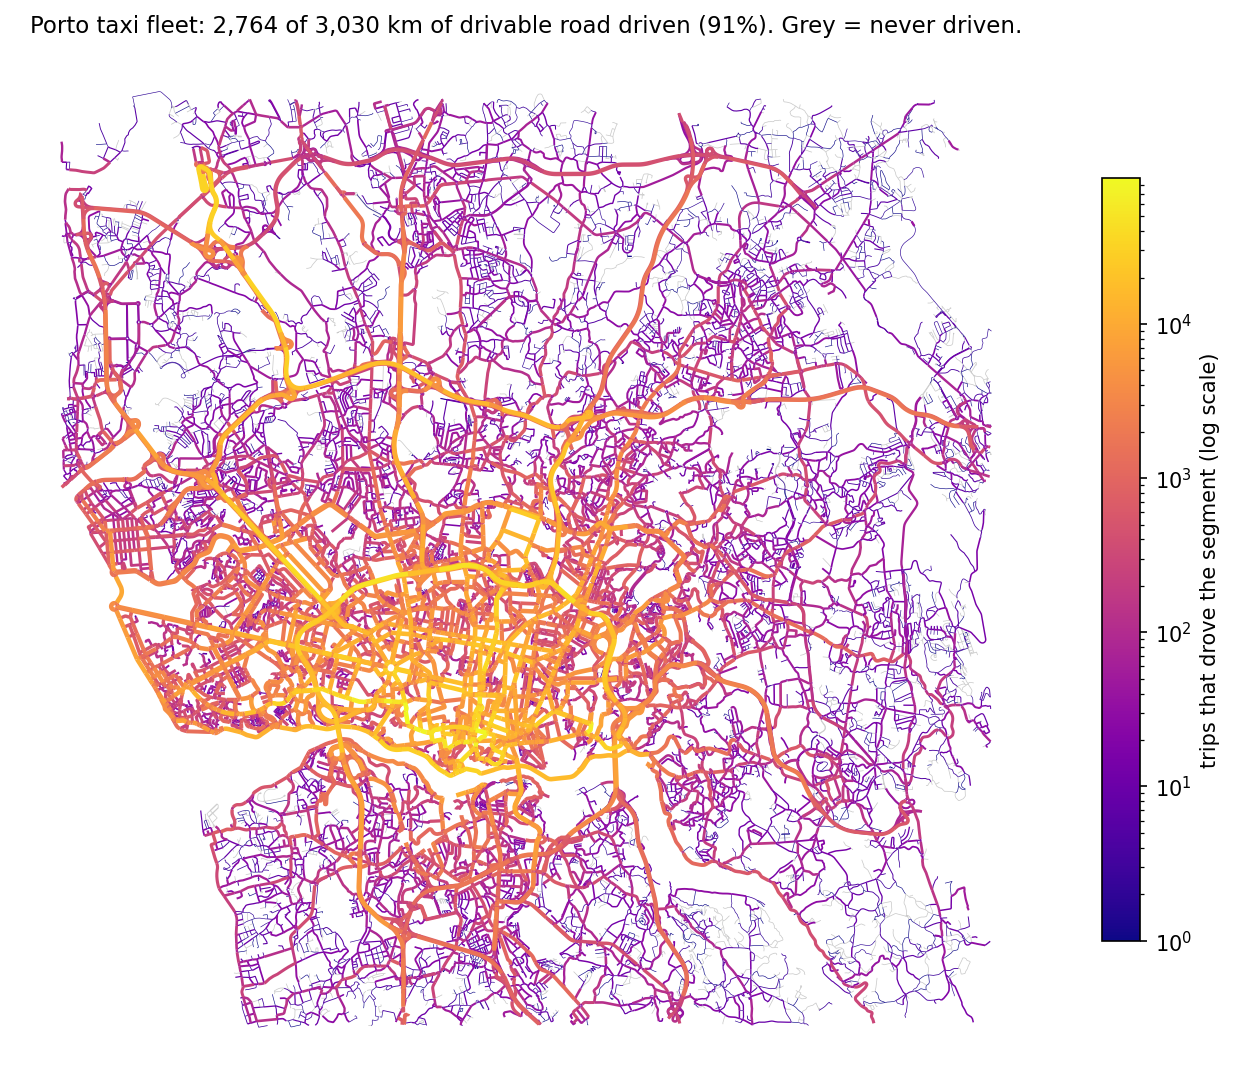
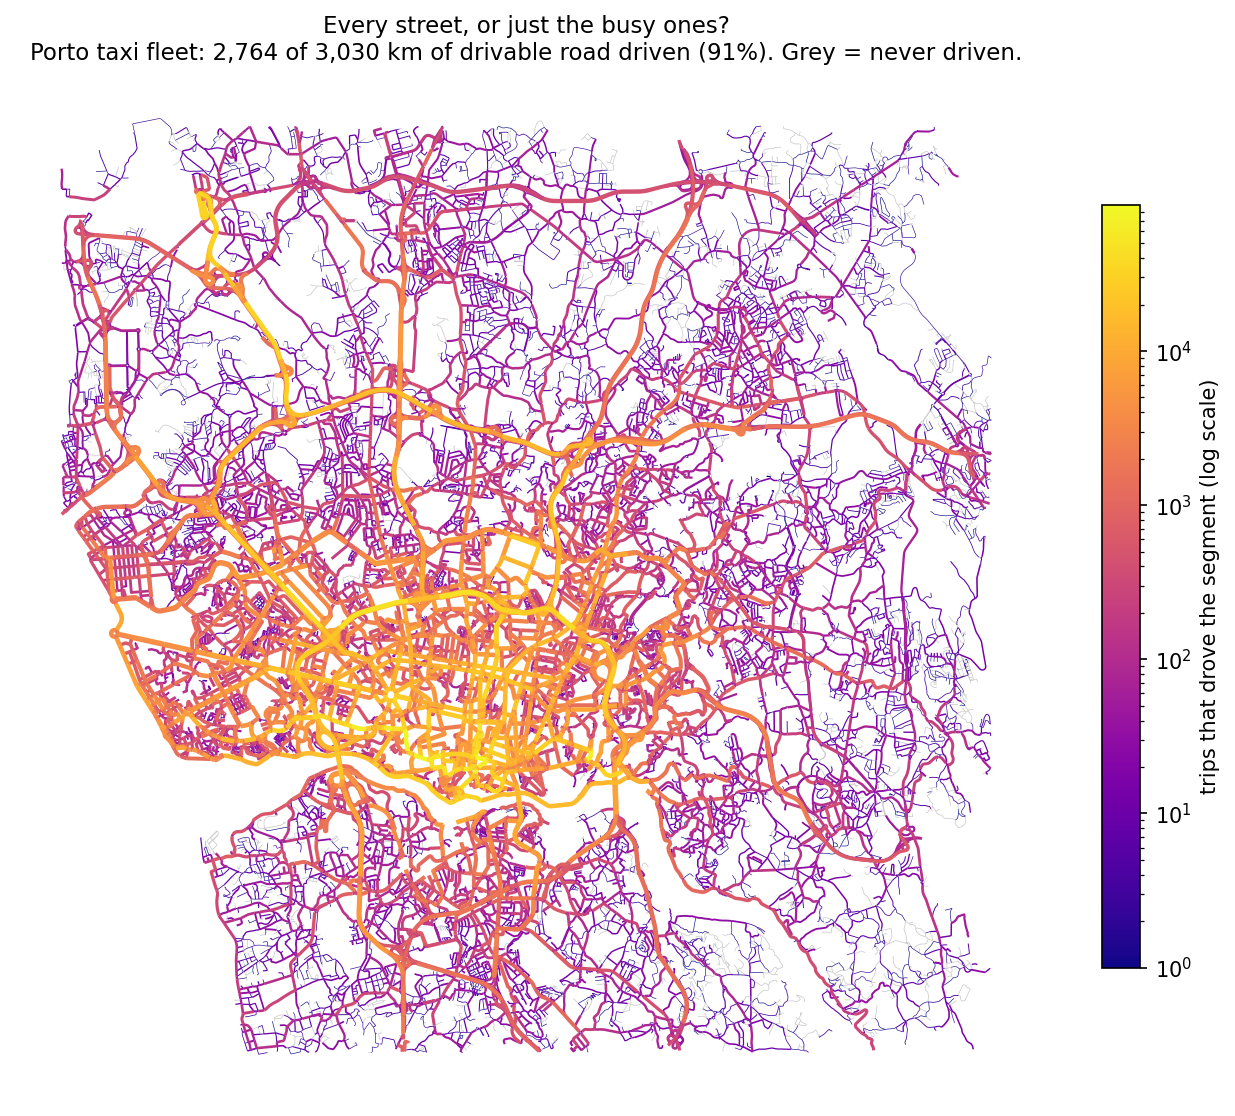
Name the project: Every street, or just the busy ones?

diff --git a/make_map.py b/make_map.py
@@ -24,7 +24,7 @@ d.plot(ax=ax, column="trips", cmap="plasma", norm=LogNorm(vmin=1, vmax=max(d.tri
        linewidth=np.clip(np.log10(d.trips + 1) * 0.6, 0.3, 2.2), legend=True,
        legend_kwds={"label": "trips that drove the segment (log scale)", "shrink": 0.6})
 km, km_d = g.length_m.sum() / 1000, g.length_m[g.trips > 0].sum() / 1000
-ax.set_title(f"Porto taxi fleet: {km_d:,.0f} of {km:,.0f} km of drivable road driven ({100 * km_d / km:.0f}%). "
+ax.set_title(f"Every street, or just the busy ones?\nPorto taxi fleet: {km_d:,.0f} of {km:,.0f} km of drivable road driven ({100 * km_d / km:.0f}%). "
              "Grey = never driven.", fontsize=11)
 ax.set_axis_off()
 (HERE / "docs").mkdir(exist_ok=True)

diff --git a/pipeline.py b/pipeline.py
@@ -1,4 +1,4 @@
-"""Fleet road coverage: which roads has the fleet driven, how often, and what's missing?
+"""Every street, or just the busy ones? Which roads has the fleet driven, how often, and what is missing?
 
 PySpark pipeline over the Porto taxi dataset (442 taxis, 1.7 million trips, a GPS fix every 15 s):
   1. explode each trip's polyline into timestamped GPS fixes

diff --git a/README.md b/README.md
@@ -1,8 +1,10 @@
-# Fleet road coverage: where has the fleet driven?
+# Every street, or just the busy ones?
 
-A PySpark pipeline that takes raw GPS from a taxi fleet, cleans it, matches every fix to the
-OpenStreetMap road network, and measures which roads the fleet has driven, how often, and which
-it has never touched. The matching is validated on synthetic drives where the true route is known.
+Which roads has a fleet really driven? A PySpark pipeline that takes 39 million raw GPS fixes from
+Porto's taxi fleet, cleans them, matches each one to the OpenStreetMap road network, and measures
+which roads the fleet drives, how often, and which it never touches. The answer: every motorway, but
+only about half the residential streets with any regularity. The matching is validated on synthetic
+drives where the true route is known.
 
 ![Coverage map](docs/coverage.png)
 
